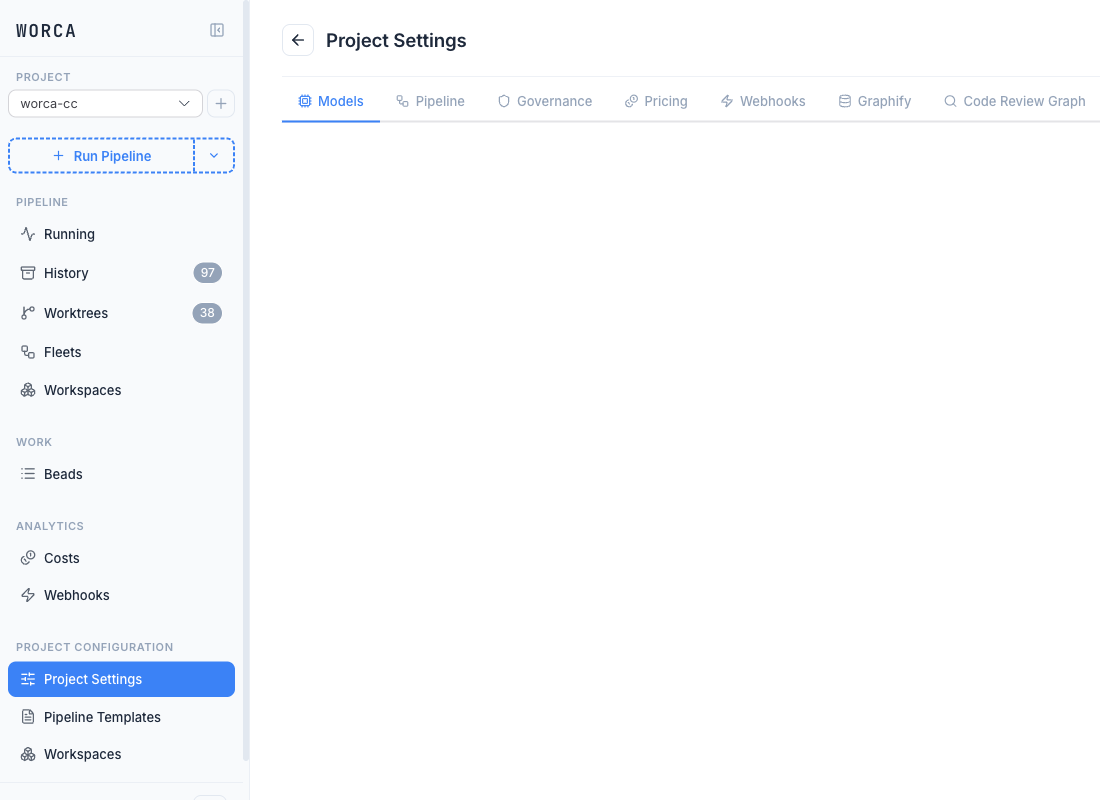
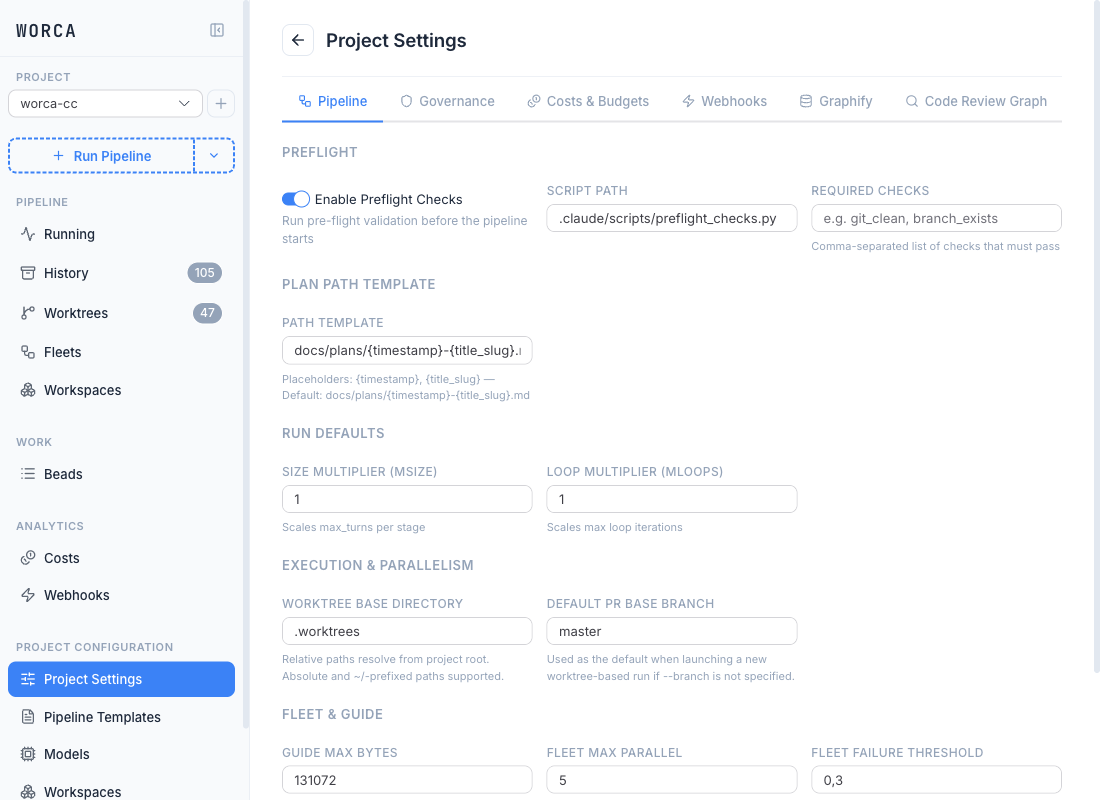
docs: refresh for v0.52–v0.54 / @user/ui v0.44–v0.47
Bring docs.worca.dev up to date with three releases' worth of UI and
runtime changes since the last docs-site update (e739477d, shipped in
worca-cc-v0.52.0 / @user/ui v0.44.0).

New pages
- configuration/models.md — the top-level Models page (tier-aware CRUD,
  per-alias pricing accordion, Applied-by, Imported badge, alt-endpoint
  routing).
- configuration/claude-md-mode.md — worca.claude_md_mode reference:
  modes, precedence chain, three constraints, when-to-use, CLI/template/
  project configuration, pipeline.claude_md.mode_resolved event.

Refreshed screenshots
- agents-and-models/01-panel.png — now shows the template editor's
  Agents tab with the per-agent Model dropdown open, tier section
  headers (PROJECT / BUILT-IN), and the jump-to-Models ↗ link.
- secrets/01-models-env.png — Model Editor env table replacing the
  removed Settings → Models tab.
- settings-overview/01-sidebar-group.png — sidebar now includes
  Models under Project Configuration; tab strip reflects the
  "Costs & Budgets" rename.
- pipeline-templates/01-sidebar-templates.png — same sidebar refresh.

New screenshots
- models/01-list, 02-editor, 05-new-entry-tier-picker.
- claude-md-mode/01-new-run-dropdown, 02-template-editor-section.
- launching-a-run/04-suggest-button, 05-advisor-result, 06-max-beads.
- min-effort/01-agents-tab-warning, 02-stages-tab-chip.
- import-bundle/01-collision-dialog-templates (template + alias),
  02-collision-dialog-aliases (alias-only).

Updated pages
[…]

diff --git a/docs-site/src/content/docs/configuration/models.md b/docs-site/src/content/docs/configuration/models.md
@@ -1,0 +1,98 @@
+---
+title: Models
+description: Browse, create, edit, and route model aliases from the dashboard — across project, user, and built-in tiers.
+sidebar:
+  order: 4
+---
+
+The **Models** page lives under **Project Configuration** in the sidebar, next to **Pipeline Templates**. From it you can browse every model alias across all three tiers, edit a model's id, env, and pricing in one place, and see which templates reference it — without touching the CLI or editing `settings.json` by hand.
+
+:::note[Project-scoped]
+The Models page is hidden in global all-projects mode until you select a project. Pick a project in the sidebar (or launch worca-ui with `--project /path`) and **Models** appears under **Project Configuration**.
+:::
+
+![The Models list: three tier sections — Project (open), User and Built-in (collapsed) — with cards showing alias id, env-var count, and per-card actions.](/screenshots/models/01-list.png)
+
+## What a model alias actually is
+
+Agents are configured by **alias**, not by raw model id. The shipped aliases — `opus`, `sonnet`, `haiku` — let you swap the underlying model for every agent that references the alias by editing one place. An alias resolves to:
+
+- a **model id** (e.g. `claude-opus-4-7`, or whatever identifier an alt-endpoint accepts), and
+- an optional **env** block — environment variables that get merged into the Claude CLI subprocess when this alias runs.
+
+The env block is the seam for routing through an alternate endpoint (`ANTHROPIC_BASE_URL`), tuning per-model output limits, or carrying any other variable the model needs to behave correctly.
+
+## The three tiers
+
+The list view splits aliases into three sections by where they live on disk:
+
+| Section | Default state | Where it lives | Who can see it |
+|---|---|---|---|
+| **Project** | Open | `.claude/settings.json` (committed) + `.claude/settings.local.json` (gitignored). | Anyone with the repo. |
+| **User** | Collapsed | `~/.worca/settings.json` + `~/.worca/settings.local.json`. | Only you. |
+| **Built-in** | Collapsed | Ship with worca-cc — `opus`, `sonnet`, `haiku`. Read-only. | Everyone. |
+
+Each section shows a count badge. Cards are clickable: click anywhere on a card to open the editor (read-only for built-ins). The card surfaces an **alt-endpoint** badge when the env block sets `ANTHROPIC_BASE_URL`, and a **"Not configured"** danger badge when any env value is still a `<YOUR-SECRET-HERE>` placeholder (typically right after a bundle import).
+
+## Cross-tier resolution: whole-entry replace
+
+When an alias is defined in multiple tiers, **Project replaces User replaces Built-in in entirety**. There is no field-level merge across tiers — a project-tier `glm-ds` entry shadows a user-tier `glm-ds` entry completely, including its env block and pricing.
+
+Within a single tier the id (in `settings.json`) and env (in `settings.local.json`) still compose — they're the same logical entry, split across the committed and gitignored files for secret hygiene.
+
+## Creating a new alias
+
+Click **+ New** in the list view. The editor opens on a blank entry with a **Storage** field pill at the top — that's the tier picker. Pick **Project** to commit the alias to the repo, or **User** to keep it on your machine only.
+
+![The New Model editor with the Storage tier picker open — Project (selected) or User — and the alias / id / env / pricing / Applied-by sections beneath.](/screenshots/models/05-new-entry-tier-picker.png)
+
+The editor has four sections:
+
+| Section | What it controls | Where it's stored |
+|---|---|---|
+| **Model id** | The full Claude model id (`claude-opus-4-7`) or any identifier your alt-endpoint accepts. | `settings.json` (committed) |
+| **Environment variables** | Variables merged into every agent subprocess that runs this alias. | `settings.local.json` (gitignored — safe for secrets) |
+| **Pricing** | Per-token rates for cost accounting. | `settings.json` under `worca.pricing.models.<alias>` |
+| **Applied by** | Templates that reference this alias. Read-only — informational. | derived |
+
+![The Model Editor for an alias routed through an alt-endpoint — alias `glm-ds`, id `opus`, eight env vars including `ANTHROPIC_BASE_URL` pointing at the alternate endpoint.](/screenshots/models/02-editor.png)
+
+Reserved env keys (`WORCA_*`, `PATH`, `CLAUDECODE`) are silently dropped on save — they belong to the pipeline runtime, not to a model profile.
+
+## Editing an alias
+
+Click any project or user card and the editor opens with current values pre-filled. **Save** writes to the alias's files and stays on the page. The card-level **Duplicate** and **Delete** actions are also available from inside the editor's action row.
+
+The same editor surfaces in read-only **View** mode for **built-in** aliases. To customize a built-in (`opus`, `sonnet`, or `haiku`), duplicate it to your project or user tier and edit the copy — the built-ins are force-synced on every `worca init --upgrade`, so editing them directly never sticks.
+
+### Pricing — co-located, not separate
+
+Each model card has its own **Pricing** accordion in the editor. The badges describe the cost source:
+
+- **explicit** — you've set ≥1 per-token rate; worca uses your value.
+- **Claude CLI** (neutral) — default endpoint + no rates → worca trusts the number the Claude CLI returns.
+- **no badge** — alt-endpoint + no rates; the card's alt-endpoint badge flags the missing-pricing risk.
+
+The **Clear pricing** button (visible when ≥1 rate is set) wipes all four fields and removes the `worca.pricing.models.<alias>` entry on save. Project-wide pricing — currency, budget — lives under **Project Settings → Costs & Budgets**.
+
+## Imported aliases — provenance badge
+
+Aliases that arrived via `worca templates import` carry an `_imported_from: "<bundle-name>"` marker. The list view surfaces this as an **Imported · *bundle*** badge on the card and a banner in the editor. The badge drops on the first UI save — that's the ownership-transfer signal: once you've touched it, it's yours.
+
+If any imported env value is still `<YOUR-SECRET-HERE>`, the card shows a danger **Not configured** badge and the value cell is outlined in red inside the editor. Saving stays enabled (placeholders are valid JSON), but the visual signal is unmistakable.
+
+## Per-agent dropdown — tier-aware
+
+In the Pipeline Templates editor, the per-agent **Model** dropdown shows every alias known across all three tiers — grouped by `PROJECT`, `USER`, and `BUILT-IN` section headers — with a small jump arrow (↗) that opens the alias in the Models page editor.
+
+![The Pipeline Templates editor's per-agent Model dropdown open, showing PROJECT and BUILT-IN section headers and the small ↗ jump-to-Models link next to each agent's model field.](/screenshots/agents-and-models/01-panel.png)
+
+Aliases that aren't defined locally (e.g. a user-tier alias on a different machine) still appear in the dropdown so a template that references them stays editable. The template's runtime resolution always uses whatever is on disk at run start, so an undefined alias surfaces as a clear error rather than a silent fallback.
+
+## See also
+
+- [Adding & routing models](/advanced/adding-models/) — the JSON shape behind the Models page, alt-endpoint routing, and the `haiku` work-request gotcha.
+- [Agents & models](/configuration/agents-and-models/) — how the per-agent Model dropdown in the template editor selects from these aliases.
+- [Secrets](/configuration/secrets/) — where `<YOUR-SECRET-HERE>` placeholders get filled in.
+- [Configuration precedence](/configuration/precedence/) — how `worca.models.*` and `worca.pricing.models.*` interact with the rest of `settings.json`.
+- [Authoring, sharing & importing templates](/advanced/authoring-templates/) — bundle import, collision dialog, and the provenance badge lifecycle.

diff --git a/docs-site/src/content/docs/configuration/claude-md-mode.md b/docs-site/src/content/docs/configuration/claude-md-mode.md
@@ -1,0 +1,84 @@
+---
+title: CLAUDE.md load mode
+description: Control which CLAUDE.md files Claude Code loads for every agent in a run — per run, per template, and at the CLI.
+sidebar:
+  order: 6
+---
+
+By default Claude Code merges every `CLAUDE.md` file it finds while walking up from the project root — user home, org-policy paths, and each ancestor directory. For ambient interactive use that's fine. For **hermetic**, **template-defined**, or **multi-project** runs it can silently change agent behaviour across machines, because different contributors have different ancestor hierarchies.
+
+`worca.claude_md_mode` is a per-run, per-template control that pins what gets loaded.
+
+## The four modes
+
+| Value | What loads | When to use |
+|---|---|---|
+| **`all`** *(default)* | Standard Claude Code behaviour — every ancestor `CLAUDE.md`, user-home, org-policy paths. | Normal interactive runs where the ambient hierarchy is intentional. |
+| **`project`** | Project-root `CLAUDE.md` only. | Hermetic workspace and fleet runs — every contributor gets identical agent behaviour regardless of their directory layout. |
+| **`project+local`** | Project-root `CLAUDE.md` + `CLAUDE.local.md`. | Same as `project`, but keeps per-developer overrides in `CLAUDE.local.md`. |
+| **`none`** | Nothing. Auto-memory writes (`~/.claude/memory/`) are also disabled as a side effect. | Maximum isolation — CI clean-room runs where any user-specific guidance would be non-deterministic. |
+
+## Setting the mode
+
+The launcher's **Advanced options** group has a **CLAUDE.md Mode** dropdown next to **Max Beads**. The default option reflects the template-or-project resolved value; picking an explicit option overrides for that run only.
+
+![The launcher's CLAUDE.md Mode dropdown open: Template Default: all (selected), Explicit: all, Explicit: project, Explicit: project+local, Explicit: none.](/screenshots/claude-md-mode/01-new-run-dropdown.png)
+
+A template can pin a mode in its **Pipeline** tab, in the section between **Approval Gates** and **Loops**:
+
+![The Pipeline Templates editor's CLAUDE.md Load Mode section: a single Mode dropdown with the "Not set (inherit project)" passthrough as the default, plus the explanatory paragraph above it.](/screenshots/claude-md-mode/02-template-editor-section.png)
+
+Leaving the template field at **Not set** means the project's `worca.claude_md_mode` (or the `all` default) applies. Setting it to an explicit value means the template pins it for every run it owns — useful for a `hermetic-ci` template that needs to be reproducible across every CI runner.
+
+Project-wide, you can pin a default in `.claude/settings.json`:
+
+```jsonc
+{
+  "worca": {
+    "claude_md_mode": "project"
+  }
+}
+```
+
+Or per-run on the CLI:
+
+```bash
+python .claude/scripts/run_pipeline.py  --prompt "..." --claude-md-mode project
+python .claude/scripts/run_worktree.py  --prompt "..." --claude-md-mode project
+python .claude/scripts/run_fleet.py     --projects ... --claude-md-mode project
+python .claude/scripts/run_workspace.py <parent>     --claude-md-mode project
+```
+
+## Precedence
+
+```
+--claude-md-mode <mode>          ← CLI flag (highest)
+  ↓ (if not set)
+template config.claude_md_mode   ← template editor → Pipeline tab → CLAUDE.md Load Mode
+  ↓ (if template doesn't set it)
+worca.claude_md_mode             ← project settings.json
+  ↓ (if not set)
+"all"                            ← built-in default
+```
+
+`claude_md_mode` is a **cross-template** project setting — unlike `worca.agents` or `worca.stages`, it is **not** stripped from the merge base when a template is active. A `worca.claude_md_mode: "project"` value in your project settings continues to apply under every built-in template that doesn't explicitly override it.
+
+## Three constraints to know
+
+**1. Blocklist-only.** Claude Code only exposes `claudeMdExcludes` (a deny-list). For `project` and `project+local`, worca walks the ancestor chain at run start and emits one pattern per ancestor directory plus user-home and org-policy paths. This covers the common cases but can only block paths that exist at launch time — dynamic mounts or symlinks resolved later are not covered.
+
+**2. `none` mode disables auto-memory as a side effect.** Claude Code's `autoMemoryEnabled: false` overlay disables the automatic memory subsystem. It does **not** by itself disable CLAUDE.md auto-discovery — those are separate concerns. To block CLAUDE.md as well, `none` mode also writes a broad `claudeMdExcludes` blocklist. If you want to suppress CLAUDE.md loading but keep auto-memory writes, use `project` instead of `none`.
+
+**3. Managed/org CLAUDE.md immunity.** The org-policy paths (`/etc/claude-code/CLAUDE.md`, `/Library/Application Support/ClaudeCode/CLAUDE.md`, `C:/ProgramData/ClaudeCode/CLAUDE.md`) are included in the blocklist for forward compatibility, but the managed/org CLAUDE.md is loaded by Claude Code at a lower layer that `claudeMdExcludes` does not currently cover. Treat managed CLAUDE.md as always-on by design.
+
+## Observability
+
+The resolved mode lands in `status.json` (`claude_md_mode` field, omitted when `"all"`) and emits as the `pipeline.claude_md.mode_resolved` event (Tier 2 — webhook and chat-notification only).
+
+The overlay JSON for non-`all` modes is written to `<run_dir>/claude_md_overlay.json` and passed to every agent subprocess via `--settings <path>`.
+
+## See also
+
+- [Settings overview](/configuration/settings-overview/) — `worca.claude_md_mode` placement in `settings.json`.
+- [Configuration precedence](/configuration/precedence/) — why `claude_md_mode` is cross-template, not template-owned.
+- [Launching a run](/running-pipelines/launching-a-run/) — the CLAUDE.md Mode dropdown in context.

diff --git a/docs-site/src/content/docs/configuration/agents-and-models.md b/docs-site/src/content/docs/configuration/agents-and-models.md
@@ -14,9 +14,11 @@ Per-agent settings live inside **Pipeline Templates**, not Project Settings — 
 - **Model** — which Claude model the agent runs. Defaults track stage complexity: the reasoning-heavy stages (Planner, Plan Reviewer, Coordinator, Reviewer, Guardian, Learner) typically run Opus, while the build-and-test stages run a faster model.
 - **Max turns** — the per-iteration turn budget. Raise it for agents that hit the ceiling on large tasks.
 
-Models are referenced by short aliases (`opus`, `sonnet`, `haiku`) that map to full model IDs. To change what an alias points at, route a model through an alternate endpoint, or add a new profile, see [Adding & routing models](/advanced/adding-models/).
+Models are referenced by short aliases (`opus`, `sonnet`, `haiku`) that map to full model IDs. The per-agent **Model** dropdown lists every alias known across Project, User, and Built-in tiers — grouped by section header — and includes a small jump arrow (↗) that opens the alias in the [Models page](/configuration/models/) editor.
 
-![The Agents panel: per-agent model dropdown and max-turns field.](/screenshots/agents-and-models/01-panel.png)
+![The template editor's Agents tab with the Planner's Model dropdown open, showing PROJECT and BUILT-IN section headers (glm-ds under Project; haiku, opus, sonnet under Built-in) and a ↗ jump-to-Models link next to each agent's model field.](/screenshots/agents-and-models/01-panel.png)
+
+To change what an alias points at, route a model through an alternate endpoint, or add a new profile, see [Models](/configuration/models/) for the UI walkthrough and [Adding & routing models](/advanced/adding-models/) for the JSON shape.
 
 ## Effort
 
@@ -27,3 +29,21 @@ The defaults are sensible (heavy upfront reasoning for the Planner, mechanical v
 :::tip
 Leaving an agent's effort unset is often the right call: under the default `adaptive` mode, the Coordinator classifies each task's complexity and the Implementer starts from that. An explicit value overrides the classification.
 :::
+
+### Advisory min-effort indicators
+
+The Agents tab and Pipeline tab both render an **advisory yellow indicator** when an agent's configured effort falls below a hardcoded recommended floor. The map is informational only — it isn't persisted to the template config and the pipeline runtime never reads it; it just helps you spot accidental under-tuning of the reasoning-heavy roles.
+
+| Floor | Agents |
+|---|---|
+| `high` | planner, plan_reviewer, reviewer, workspace_planner |
+| `medium` | coordinator, guardian |
+| `low` | implementer, tester, learner |
+
+On the **Agents** tab, the indicator is a small chip below the Effort field reading "Below recommended floor *high*":
+
+![The Pipeline Templates editor's Agents tab with the Planner's Effort set to "low" and a small yellow chip below the field reading "⚠ Below recommended floor high."](/screenshots/min-effort/01-agents-tab-warning.png)
+
+The same advisory surfaces on the **Pipeline** tab as a chip under each stage's agent picker, so you can see the floor mismatch while you're toggling stages on and off:
+
+![The Pipeline Templates editor's Pipeline tab showing stage cards: the PLAN stage's agent picker carries a yellow chip reading "⚠ Effort low · recommended floor high"; PLAN_REVIEW shows "Effort high · recommended floor high" without a warning.](/screenshots/min-effort/02-stages-tab-chip.png)

diff --git a/docs-site/src/content/docs/advanced/adding-models.md b/docs-site/src/content/docs/advanced/adding-models.md
@@ -5,11 +5,11 @@ sidebar:
   order: 5
 ---
 
-Choosing *which* model each agent runs is a dropdown in **Settings → Agents** (see [Agents & models](/configuration/agents-and-models/)) — no JSON needed for day-to-day tuning. This page covers the layer beneath that: the **model profiles** the dropdowns select from.
+Choosing *which* model each agent runs is a dropdown in the **Pipeline Templates** editor's Agents tab (see [Agents & models](/configuration/agents-and-models/)) — no JSON needed for day-to-day tuning. This page covers the layer beneath that: the **model profiles** the dropdowns select from.
 
 Agents reference models by short alias — `opus`, `sonnet`, `haiku` — and those aliases resolve through `worca.models` in `settings.json`. Mapping an alias lets you retarget it, add a profile, or route a model through an alternate endpoint — things the per-agent dropdown can't do.
 
-You don't hand-edit that map either: **Settings → Models** is the editor for it. Each alias is a card where you can change its model ID, add or remove a custom profile, and set per-model environment variables. The JSON below is simply the shape the Models editor writes — useful when you're scripting `settings.json` or reading a diff.
+You don't hand-edit that map either: the top-level **[Models](/configuration/models/)** page is the editor for it. Each alias is a card where you can change its model ID, set per-model environment variables, configure per-token pricing, and see which templates reference it. The JSON below is simply the shape the Models editor writes — useful when you're scripting `settings.json` or reading a diff.
 
 ## The two profile forms
 
@@ -30,6 +30,10 @@ A `worca.models` entry — what each Models card saves — is either a plain mod
 ```
 
 The string form just maps alias → model ID. The object form adds an `env` map that is **merged into the subprocess environment whenever that model runs** — the seam for routing through an alternate endpoint or tuning per-model behavior.
+
+:::note[Two files, one entry]
+The Models editor stores `id` in `settings.json` (committed) and `env` in `settings.local.json` (gitignored). They compose into a single logical alias at run start. The JSON above is the *effective* shape — you'll see it split across two files on disk. See [Secrets](/configuration/secrets/).
+:::
 
 ## Retargeting an alias
 
@@ -62,10 +66,19 @@ Use the `env` map to set whatever environment variables your gateway or proxy ex
 }
 ```
 
-## Two gotchas
+Aliases with an `ANTHROPIC_BASE_URL` in their `env` are flagged with an **alt-endpoint** badge on the Models page card. Worca overrides Claude CLI's `total_cost_usd` for these runs using `worca.pricing.models.<alias>` — set the rates in the model card's Pricing accordion so cost accounting stays accurate.
 
-- **Secrets** (API keys for an alternate endpoint) belong in `settings.local.json`, never the committed `settings.json`. Enter them through the dashboard's **Secrets** panel, which writes that gitignored file for you. See [Secrets](/configuration/secrets/).
+Alt-model streams (e.g. Gemini via OpenRouter) sometimes return `null` instead of an integer for `cache_creation_input_tokens` or `duration_ms`. Worca treats `null` as zero, so accumulation doesn't crash partway through.
+
+## Cross-tier resolution
+
+`worca.models.<alias>` and `worca.pricing.models.<alias>` resolve **whole-entry**, not field-merge — Project shadows User shadows Built-in in entirety. To customize a built-in alias' env block, define it explicitly in **Project** or **User** scope on the Models page, then edit the copy. Built-in aliases are force-synced on every `worca init --upgrade`, so direct edits never stick.
+
+## Three gotchas
+
+- **Secrets** (API keys for an alternate endpoint) belong in `settings.local.json`, never the committed `settings.json`. The Models editor's env table writes them to the right file automatically. See [Secrets](/configuration/secrets/).
 - **Reserved keys** are stripped from any `env` map — anything matching `WORCA_*`, `PATH`, or `CLAUDECODE` is dropped with a warning, so a profile can't clobber the variables the pipeline depends on.
+- **`<YOUR-SECRET-HERE>` placeholders** in an imported alias' env block surface a danger **Not configured** badge on the card and a red-bordered value cell in the editor. Save stays enabled — fill the placeholder in and re-save.
 
 :::note
 Customizing the `haiku` profile also retargets work-request title generation, which is hardcoded to that alias. That coupling is intentional.

diff --git a/docs-site/src/content/docs/reference/settings.md b/docs-site/src/content/docs/reference/settings.md
@@ -22,15 +22,17 @@ Sections marked **† template-owned** are stripped from the merge base when a t
 | Section | Controls | UI panel | See |
 |---|---|---|---|
 | `worca.default_template` | Template id pinned as the project default; every run uses it unless `--template` overrides at launch. | Settings (per-project) | [Configuration precedence](/configuration/precedence/) |
-| `worca.stages` **†** | Enable/disable stages; override the agent per stage. `stages.preflight` is a cross-template carve-out and survives strip. | Settings → Stages | [Stages](/configuration/stages/) |
-| `worca.agents` **†** | Per-agent `model`, `max_turns`, `effort`. | Settings → Agents | [Agents & models](/configuration/agents-and-models/) |
-| `worca.models` | Alias → model ID (string) or `{id, env}` profile. | Settings → Models | [Adding & routing models](/advanced/adding-models/) |
-| `worca.effort` **†** | `auto_mode`, `auto_cap` for adaptive effort. | Settings → Effort | [Tuning effort](/advanced/tuning-effort/) |
-| `worca.loops` **†** | Max iterations for the test / review / planning loops. | Settings → Loop Limits | [Loops & circuit breaker](/configuration/loops-and-circuit-breaker/) |
-| `worca.circuit_breaker` **†** | Error classification and halt thresholds. | Settings → Circuit Breaker | [Loops & circuit breaker](/configuration/loops-and-circuit-breaker/) |
-| `worca.governance.dispatch` **†** | Per-agent `tools` / `skills` / `subagents` allowlists. | Settings → Governance → Dispatch Rules | [Dispatch governance](/advanced/dispatch-governance/) |
+| `worca.claude_md_mode` | Per-run CLAUDE.md load mode (`all` / `project` / `project+local` / `none`). Cross-template. | Pipeline Templates editor → Pipeline tab → CLAUDE.md Load Mode | [CLAUDE.md load mode](/configuration/claude-md-mode/) |
+| `worca.stages` **†** | Enable/disable stages; override the agent per stage. `stages.preflight` is a cross-template carve-out and survives strip. | Pipeline Templates editor → Pipeline tab | [Stages](/configuration/stages/) |
+| `worca.agents` **†** | Per-agent `model`, `max_turns`, `effort`. | Pipeline Templates editor → Agents tab | [Agents & models](/configuration/agents-and-models/) |
+| `worca.models` | Alias → model ID (string) or `{id, env}` profile. | Models page (top-level) | [Models](/configuration/models/) · [Adding & routing models](/advanced/adding-models/) |
+| `worca.pricing` | Per-model rates + project-wide currency, budgets, and `server_tools` rates. | Models page (per-alias accordion) + Settings → Costs & Budgets | [Models](/configuration/models/) |
+| `worca.effort` **†** | `auto_mode`, `auto_cap` for adaptive effort. | Pipeline Templates editor → Agents tab → Effort mode | [Tuning effort](/advanced/tuning-effort/) |
+| `worca.loops` **†** | Max iterations for the test / review / planning loops. | Pipeline Templates editor → Pipeline tab → Loops | [Loops & circuit breaker](/configuration/loops-and-circuit-breaker/) |
+| `worca.circuit_breaker` **†** | Error classification and halt thresholds. | Pipeline Templates editor → Pipeline tab → Circuit Breaker | [Loops & circuit breaker](/configuration/loops-and-circuit-breaker/) |
+| `worca.governance.dispatch` **†** | Per-agent `tools` / `skills` / `subagents` allowlists. | Pipeline Templates editor → Governance tab | [Dispatch governance](/advanced/dispatch-governance/) |
 | `worca.governance.guards` | Hook guards (e.g. `block_graphify_mutation`). Cross-template. | Settings → Governance → Guard Rules | [Dispatch governance](/advanced/dispatch-governance/) |
-| `worca.milestones` **†** | Approval gates (`plan_approval`, `pr_approval`, `deploy_approval`). | Settings → Approval Gates | [Controlling a run](/running-pipelines/controlling-a-run/) |
+| `worca.milestones` **†** | Approval gates (`plan_approval`, `pr_approval`, `deploy_approval`). | Pipeline Templates editor → Pipeline tab → Approval Gates | [Controlling a run](/running-pipelines/controlling-a-run/) |
 | `worca.webhooks` | Outbound event subscriptions. | Settings → Webhooks | [Webhooks](/integrations/webhooks/) |
 | `worca.graphify` | Knowledge-graph `enabled` / `mode`. | Settings → Graphify | [Knowledge graph](/advanced/knowledge-graph/) |
 | `worca.guide` | `max_bytes` cap on combined guide content. | Settings → Fleet & guide | [Guides](/advanced/guides/) |

diff --git a/docs-site/src/content/docs/running-pipelines/launching-a-run.md b/docs-site/src/content/docs/running-pipelines/launching-a-run.md
@@ -51,6 +51,20 @@ Pick the template that matches your task before launching. If you're unsure and 
 
 ![The launcher's Pipeline dropdown open, with the User, Project, and Built-in group labels separating the templates and the project default suffixed ★.](/screenshots/launching-a-run/02-template-dropdown.png)
 
+### Let worca pick for you — the Suggest button
+
+Next to the Pipeline dropdown is a **Suggest** button (sparkles icon). It analyses your work source — prompt, spec file, GitHub issue, or GitHub PR with review comments — via an LLM agent and recommends a best-fit template from your catalog (built-in + project + user) with a confidence level and one-sentence rationale.
+
+![The Run Pipeline launcher with the Suggest button visible next to the PIPELINE TEMPLATE dropdown.](/screenshots/launching-a-run/04-suggest-button.png)
+
+The result dialog shows the recommended template name, a confidence badge (`high confidence` / `medium` / `low`), the rationale, and a **Use this template** action that selects it in the dropdown:
+
+![The advisor result dialog showing the recommended template "Minor Feature" with a green "high confidence" badge and a rationale paragraph, plus Cancel and "Use this template" buttons.](/screenshots/launching-a-run/05-advisor-result.png)
+
+If the work source is a GitHub URL whose owner/repo doesn't match the project's, the advisor short-circuits with a clear *"This source belongs to X, but this project's repository is Y"* message before calling the agent — you don't pay for a confused recommendation.
+
+The same recommender is available on the CLI as `worca templates advise` for scripting or CI.
+
 ## Advanced options
 
 The launcher exposes a few optional knobs:
@@ -58,10 +72,14 @@ The launcher exposes a few optional knobs:
 - **Size / loop multipliers** — scale the per-agent turn budget and the retry-loop limits up for unusually large tasks.
 - **Base branch** — the branch the run's worktree forks from (defaults to the project's current HEAD).
 - **Plan file** — supply a pre-written plan to skip the Planner stage.
+- **Max Beads** — cap on how many beads the Coordinator may decompose the work into. The dropdown distinguishes **Template Default: *X*** (which re-resolves to whatever the current template ships) from **Explicit: *N*** (which overrides the template default for this run and survives template switches).
+- **CLAUDE.md Mode** — pin which `CLAUDE.md` files load for every agent in this run. Same Template-Default / Explicit pattern as Max Beads. Use **Explicit: project** for hermetic, reproducible runs across machines. See [CLAUDE.md load mode](/configuration/claude-md-mode/).
 
 Leave these at their defaults for most runs.
 
 ![The launcher's advanced section: size/loop multipliers, base branch, and the plan-file picker.](/screenshots/launching-a-run/03-advanced.png)
+
+![The Max Beads dropdown open with the Template Default: Auto option selected (checkmark) above the Explicit: Auto / 1 / 2 / 3 / 5 / 10 entries.](/screenshots/launching-a-run/06-max-beads.png)
 
 ## Launch
 

diff --git a/docs-site/src/content/docs/advanced/tuning-effort.md b/docs-site/src/content/docs/advanced/tuning-effort.md
@@ -36,6 +36,18 @@ The shipped defaults set explicit effort where judgment matters and leave it uns
 
 Set explicit effort for high-stakes or heavy-reasoning stages; leave it unset for mechanical ones.
 
+### Advisory recommended floors
+
+The Pipeline Templates editor renders an **advisory yellow indicator** when an agent's configured effort falls below a hardcoded recommended floor — a yellow chip beneath the Effort field on the Agents tab, and a matching chip beneath each stage's agent picker on the Pipeline tab. The hint is purely advisory: it isn't persisted to the template, the pipeline runtime never reads it, and saving stays enabled.
+
+| Floor | Agents |
+|---|---|
+| `high` | planner, plan_reviewer, reviewer, workspace_planner |
+| `medium` | coordinator, guardian |
+| `low` | implementer, tester, learner |
+
+See the screenshots in [Agents & models](/configuration/agents-and-models/#advisory-min-effort-indicators).
+
 ## Escalation and the cap
 
 On a loopback (tests fail, changes requested), the re-running agent steps up the ladder — `+1` rung for a test failure, `+2` for a review change-request. `auto_cap` (default `xhigh`) is the ceiling escalation can reach.

diff --git a/docs-site/src/content/docs/configuration/settings-overview.md b/docs-site/src/content/docs/configuration/settings-overview.md
@@ -9,11 +9,13 @@ Every project's configuration lives under a `worca` namespace in `.claude/settin
 
 ## The Settings panel
 
-Open a project's **Settings** — found in the sidebar under **Project Configuration → Project Settings**, alongside its sibling [**Pipeline Templates**](/configuration/pipeline-templates/) — to configure agent models and turns, stages, governance, circuit breaker, pricing, webhooks, integrations, and preflight checks. Both entries are hidden in global all-projects mode until you select a project. Saves are written to `.claude/settings.json` and are effective on the next run.
+Open a project's **Settings** — found in the sidebar under **Project Configuration → Project Settings**, alongside its siblings [**Pipeline Templates**](/configuration/pipeline-templates/) and [**Models**](/configuration/models/) — to configure the project-wide pipeline knobs that aren't owned by a template: preflight, plan-path template, run defaults (size/loop multipliers), execution & parallelism, governance guards, costs & budgets, webhooks, integrations, Graphify, and Code Review Graph. All three Project Configuration entries are hidden in global all-projects mode until you select a project. Saves are written to `.claude/settings.json` and are effective on the next run.
+
+Per-agent tuning (models, max turns, effort) and stage on/off lives in the **Pipeline Templates** editor, not here — every run uses an active template, so the template owns those keys. Per-alias model definitions live on the **Models** page. Project Settings covers everything that's the same across templates.
 
 Saves are **locked while a pipeline is running** to prevent mid-run config drift — finish or stop the run before changing settings.
 
-![The Project Configuration sidebar group with Project Settings open, its subpanels (Stages, Agents, Governance, Circuit Breaker, Webhooks) visible, and Pipeline Templates listed as its sibling entry.](/screenshots/settings-overview/01-sidebar-group.png)
+![The Project Configuration sidebar group with Project Settings open on its Pipeline tab — preflight, plan path, run defaults, execution & parallelism, fleet & guide — with Pipeline Templates, Models, and Workspaces visible as siblings beneath.](/screenshots/settings-overview/01-sidebar-group.png)
 
 ## Three places config lives
 

diff --git a/docs-site/src/content/docs/reference/cli.md b/docs-site/src/content/docs/reference/cli.md
@@ -38,6 +38,8 @@ Run the pipeline. See [Running from the CLI](/advanced/running-from-the-cli/).
 | `--template ID` | Apply a template before running. |
 | `--param KEY=VALUE` | Override a template parameter (repeatable). |
 | `--msize N` / `--mloops N` | Turn / loop multipliers (1–10). |
+| `--max-beads N` | Cap Coordinator bead decomposition for this run. `0` = auto. |
+| `--claude-md-mode MODE` | Pin which `CLAUDE.md` files load (`all` / `project` / `project+local` / `none`). See [CLAUDE.md load mode](/configuration/claude-md-mode/). |
 | `--worktree` | Run in an isolated git worktree. |
 | `--branch BRANCH` | Worktree base branch (`--worktree` only). |
 | `--guide PATH` | Reference guide for planning (`--worktree` only, repeatable). |
@@ -69,6 +71,7 @@ Manage pipeline templates. See [Authoring templates](/advanced/authoring-templat
 | `delete <id> [--global]` | Delete a project or user template. |
 | `export --to <dest> [--templates <ids>] [--include-models] [--include-pricing]` | Export templates as a portable bundle. `<dest>` is a file path, `gist` (secret), or `gist:public`. Secrets are redacted before write. See [Share via export/import bundles](/advanced/authoring-templates/#share-via-exportimport-bundles). |
 | `import --from <src> [--scope project\|user] [--non-interactive]` | Import templates from a bundle. `<src>` is a file path, HTTPS URL, or gist URL/ID. Collisions prompt interactively; import is atomic with rollback. |
+| `advise [--prompt TEXT] [--spec PATH] [--source REF] [--json]` | LLM-backed recommendation for which template best matches a work source. Powers the launcher's **Suggest** button. See [Launching a run](/running-pipelines/launching-a-run/#let-worca-pick-for-you--the-suggest-button). |
 
 ## cleanup
 

diff --git a/docs-site/src/content/docs/configuration/precedence.md b/docs-site/src/content/docs/configuration/precedence.md
@@ -78,7 +78,7 @@ If your project sets `loops.implement_test: 3` and you launch with the `quick-fi
 
 - **`worca.default_template` pins a project's pipeline.** Set it once and every run uses that template unless `--template` overrides at launch. `worca init --upgrade` auto-migrates customized template-owned keys into a `_legacy-settings` template and pins it as your default, so existing projects don't see a behavior change until they explicitly opt in by editing or replacing it.
 - **Templates never merge across tiers.** Project shadows user shadows built-in by id. To extend a built-in template, copy it into your project (or user) scope and edit there — don't expect partial overrides. The [`/worca-template`](/advanced/authoring-templates/) skill automates this.
-- **Models have only two real tiers in the visible dict** (user, project). `opus` / `sonnet` / `haiku` only have a silent code fallback — to customize their `env` block (alt-endpoint routing), list them explicitly in user or project settings so they appear in **Settings → Models**.
+- **Models resolve whole-entry, not field-merge.** `worca.models.<alias>` and `worca.pricing.models.<alias>` follow Project shadows User shadows Built-in — the upper tier's entry replaces the lower tier's entry in entirety, env block and all. There is no cross-tier field merge. To customize a built-in (`opus`, `sonnet`, `haiku`), duplicate it to Project or User scope on the [Models page](/configuration/models/) — direct edits to the built-ins are force-overwritten by `worca init --upgrade`.
 - **`.local.json` deep-merges into its sibling `.json`** at load time, per tier. That's how the [secrets split](/configuration/secrets/) keeps committed `id` values separate from gitignored `env` blocks while presenting a unified `worca.models` to the rest of the pipeline.
 - **CLI/API overrides aren't a free-form layer.** Each flag targets specific keys (`--mloops` → `loops.*`, `--msize` → effort sizing, `--template` → template id, `--param` → template params).
 